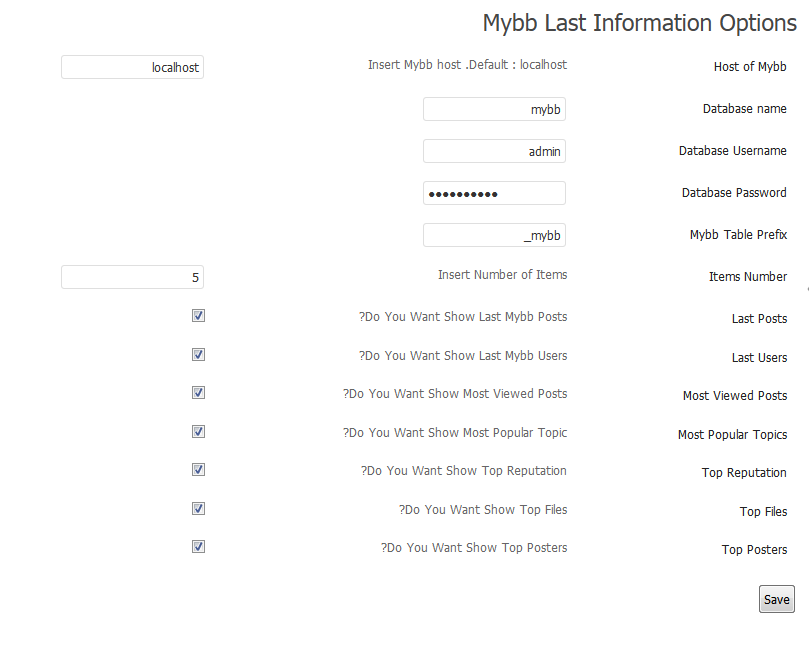
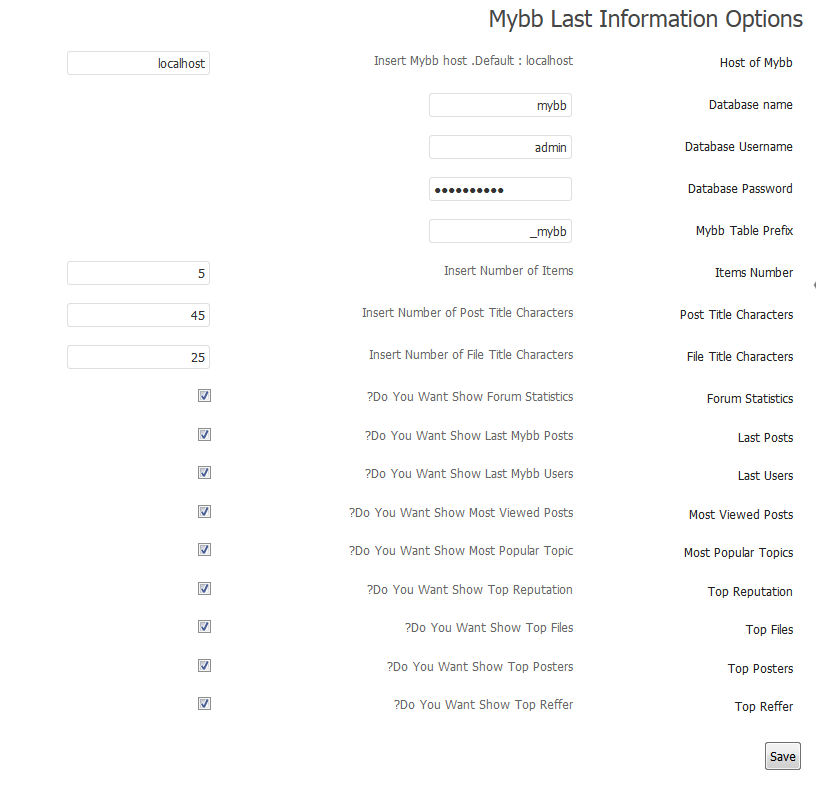
Update Plugin to 1.5
git-svn-id: https://plugins.svn.wordpress.org/mybb-last-information/trunk@788882 b8457f37-d9ea-0310-8a92-e5e31aec5664

diff --git a/mybblastinfo.php b/mybblastinfo.php
@@ -3,7 +3,7 @@
  * Plugin Name: Mybb Last Inforamtion
  * Plugin URI: http://pctricks.ir/
  * Description: This Plugin Show Mybb Info In Wordpress . Like Last post,Last User,Last Thread,Top Download
- * Version: 1.0
+ * Version: 1.5
  * Author: <a href="http://pctricks.ir/">Mostafa Shiraali</a>
  * Author URI: http://pctricks.ir/
  * License: A "Slug" license name e.g. GPL2
@@ -23,6 +23,10 @@
  add_option('mli_topreputation',"","Top Reputation");
  add_option('mli_topfiles',"","Top Files");
  add_option('mli_topposter',"","Top Poster");
+ add_option('mli_lastpostchar',45,"Last Posts Title Character");
+ add_option('mli_filetitle',25,"File Title chars");
+ add_option('mli_fstat',"","Forum Statistics");
+ add_option('mli_reffer',"","Top Reffer");
  } 
  function mybblastinfo_init()
  {
@@ -39,6 +43,10 @@
  register_setting('pctriks_mli_opt','mli_topreputation');
  register_setting('pctriks_mli_opt','mli_topfiles');
  register_setting('pctriks_mli_opt','mli_topposter');
+ register_setting('pctriks_mli_opt','mli_lastpostchar');
+ register_setting('pctriks_mli_opt','mli_filetitle');
+ register_setting('pctriks_mli_opt','mli_fstat');
+ register_setting('pctriks_mli_opt','mli_reffer');
  }
  if ( ! function_exists ( 'mybblastinfo_lang_init' ) ) {
  function mybblastinfo_lang_init()
@@ -83,6 +91,22 @@ function mybblastinfo_display_options()
             <th scope="row"><label><?php _e("Items Number","mybblastinfo");?></label></th>
 			<td><span class="description"><?php _e("Insert Number of Items","mybblastinfo");?></span></td>
 			<td><input type="text" name="mli_itemnumber" value="<?php echo get_option('mli_itemnumber'); ?>" /> </td>
+        </tr>		
+		</tr>
+		 <tr valign="top">
+            <th scope="row"><label><?php _e("Post Title Characters","mybblastinfo");?></label></th>
+			<td><span class="description"><?php _e("Insert Number of Post Title Characters","mybblastinfo");?></span></td>
+			<td><input type="text" name="mli_lastpostchar" value="<?php echo get_option('mli_lastpostchar'); ?>" /> </td>
+        </tr>
+		<tr valign="top">
+            <th scope="row"><label><?php _e("File Title Characters","mybblastinfo");?></label></th>
+			<td><span class="description"><?php _e("Insert Number of File Title Characters","mybblastinfo");?></span></td>
+			<td><input type="text" name="mli_filetitle" value="<?php echo get_option('mli_filetitle'); ?>" /> </td>
+        </tr>
+		<tr valign="top">
+            <th scope="row"><label><?php _e("Forum Statistics","mybblastinfo");?></label></th>
+			<td><span class="description"><?php _e("Do You Want Show Forum Statistics?","mybblastinfo");?></span></td>
+			<td><input type="checkbox" name="mli_fstat" id="mli_fstat" <?php checked('mli_fstat', get_option('mli_fstat'));?> value='mli_fstat'/></td>
         </tr>
 		<tr valign="top">
             <th scope="row"><label><?php _e("Last Posts","mybblastinfo");?></label></th>
@@ -120,6 +144,11 @@ function mybblastinfo_display_options()
 			<td><span class="description"><?php _e("Do You Want Show Top Posters?","mybblastinfo");?></span></td>
 			<td><input type="checkbox" name="mli_topposter" id="mli_topposter" <?php checked('mli_topposter', get_option('mli_topposter'));?> value='mli_topposter'/></td>
         </tr>
+		<tr valign="top">
+            <th scope="row"><label><?php _e("Top Reffer","mybblastinfo");?></label></th>
+			<td><span class="description"><?php _e("Do You Want Show Top Reffer?","mybblastinfo");?></span></td>
+			<td><input type="checkbox" name="mli_reffer" id="mli_reffer" <?php checked('mli_reffer', get_option('mli_reffer'));?> value='mli_reffer'/></td>
+        </tr>
 	</table>
 	<p class="submit">
 	<input type="submit" name="Submit" value="Save" />
@@ -136,6 +165,8 @@ $db_pass=get_option('mli_mybb_db_password');
 $db_dbname=get_option('mli_mybb_db');
 $table_prefix=get_option('mli_mybb_tableprefix');
 $item_number=get_option('mli_itemnumber');
+$lastpost_chars_number=get_option('mli_lastpostchar');
+$file_chars_number=get_option('mli_filetitle');
 $lastpost_perm=get_option('mli_lastpost');
 $lastuser_perm=get_option('mli_lastuser');
 $mostviews_perm=get_option('mli_mostview');
@@ -143,6 +174,8 @@ $hottopic_perm=get_option('mli_hottopic');
 $toprep_perm=get_option('mli_topreputation');
 $topfiles_perm=get_option('mli_topfiles');
 $topposter_perm=get_option('mli_topposter');
+$fstat=get_option('mli_fstat');
+$reffer=get_option('mli_reffer');
 $conection=mysql_connect($hostname,$db_user,$db_pass) or die("Error Mybb Conection");
 mysql_select_db($db_dbname);
 mysql_query("SET NAMES utf8");
@@ -156,17 +189,44 @@ SELECT pid
 FROM ".$table_prefix."posts
 WHERE visible='1' ORDER BY pid DESC
 )t2 ON t1.pid = t2.pid GROUP BY tid ORDER BY pid DESC");
+$fstat_users =mysql_query("SELECT * FROM ".$table_prefix."users");
+$fstat_threads =mysql_query("SELECT * FROM ".$table_prefix."threads");
+$fstat_posts =mysql_query("SELECT * FROM ".$table_prefix."posts");
+$fstat_banned =mysql_query("SELECT * FROM ".$table_prefix."banned");
+$fstat_groups =mysql_query("SELECT * FROM ".$table_prefix."usergroups");
+$fstat_forums =mysql_query("SELECT * FROM ".$table_prefix."forums");
+$fstat_polls =mysql_query("SELECT * FROM ".$table_prefix."polls");
 $query_mostviewed =mysql_query("SELECT * FROM ".$table_prefix."threads WHERE visible='1' ORDER BY views DESC LIMIT 0,{$item_number}");
 $query_hottopics = mysql_query("SELECT * FROM ".$table_prefix."threads WHERE visible='1' ORDER BY replies DESC LIMIT 0,{$item_number}");
 $query_top_poster = mysql_query("SELECT * FROM ".$table_prefix."users ORDER BY postnum DESC LIMIT 0,{$item_number}");
 $query_top_reputation =mysql_query("SELECT * FROM ".$table_prefix."users ORDER BY reputation DESC LIMIT 0,{$item_number}");
 $query_top_file = mysql_query("SELECT * FROM ".$table_prefix."attachments ORDER BY downloads DESC LIMIT 0,{$item_number}");
 $query_users=mysql_query("SELECT * FROM  ".$table_prefix."users ORDER BY uid DESC LIMIT 0,{$item_number}");
+	$query_reffer = mysql_query("
+	SELECT u.uid,u.username,u.usergroup,u.displaygroup,count(*) as refcount 
+	FROM ".$table_prefix."users u 
+	LEFT JOIN ".$table_prefix."users r ON (r.referrer = u.uid) 
+	WHERE r.referrer = u.uid 
+	GROUP BY r.referrer DESC 
+	ORDER BY refcount DESC 
+	LIMIT 0 ,{$item_number}");	
 $mybb_info='
 <div id="mybbinfoaccordion">';
+if($fstat)
+{
+$mybb_info .='<section id="item1"><h1><a href="#">'.__("Forum Statistics","mybblastinfo").'</a></h1><p>';
+$mybb_info .="<li>".__("Members","mybblastinfo")." : ".mysql_num_rows($fstat_users)."</li>";
+$mybb_info .="<li>".__("Threads","mybblastinfo")." : ".mysql_num_rows($fstat_threads)."</li>";
+$mybb_info .="<li>".__("Posts","mybblastinfo")." : ".mysql_num_rows($fstat_posts)."</li>";
+$mybb_info .="<li>".__("Banned Users","mybblastinfo")." : ".mysql_num_rows($fstat_banned)."</li>";
+$mybb_info .="<li>".__("User Groups","mybblastinfo")." : ".mysql_num_rows($fstat_groups)."</li>";
+$mybb_info .="<li>".__("Forums","mybblastinfo")." : ".mysql_num_rows($fstat_forums)."</li>";
+$mybb_info .="<li>".__("Polls","mybblastinfo")." : ".mysql_num_rows($fstat_polls)."</li>";
+$mybb_info.='</p></section>';
+}
 if($lastpost_perm)
 {
-$mybb_info .='<section id="item1"><h1><a href="#">'.__("Last Post","mybblastinfo").'</a></h1><p>';
+$mybb_info .='<section id="item2"><h1><a href="#">'.__("Last Post","mybblastinfo").'</a></h1><p>';
 $post_count=0;
 while(($fetch=mysql_fetch_array($query_posts)) && $post_count<$item_number)
 {
@@ -177,7 +237,7 @@ $mybb_info.='</p></section>';
 }
 if($lastuser_perm)
 {
-$mybb_info.='<section id="item2"><h1><a href="#">'.__("Last User","mybblastinfo").'</a></h1><p>';
+$mybb_info.='<section id="item3"><h1><a href="#">'.__("Last User","mybblastinfo").'</a></h1><p>';
 while($fetch=mysql_fetch_array($query_users))
 {
 $mybb_info .="<li><a href=".$forum_url."/member.php?action=profile&uid=".$fetch['uid']." target=\"_blank\">".$fetch['username']."</a></li>";
@@ -186,25 +246,25 @@ $mybb_info.='</p></section>';
 }
 if($mostviews_perm)
 {
-$mybb_info.='<section id="item3"><h1><a href="#">'.__("Most viewed","mybblastinfo").'</a></h1><p>';
+$mybb_info.='<section id="item4"><h1><a href="#">'.__("Most viewed","mybblastinfo").'</a></h1><p>';
 while($fetch=mysql_fetch_array($query_mostviewed))
 {
-$mybb_info .="<li><a href=".$forum_url."/showthread.php?tid=".$fetch['tid']." target=\"_blank\">".mb_substr($fetch['subject'],0,45,'utf-8')."</a></li>";
+$mybb_info .="<li><a href=".$forum_url."/showthread.php?tid=".$fetch['tid']." target=\"_blank\">".mb_substr($fetch['subject'],0,$lastpost_chars_number,'utf-8')."</a></li>";
 }
 $mybb_info.='</p></section>';
 }
 if($hottopic_perm)
 {
-$mybb_info.='<section id="item4"><h1><a href="#">'.__("Hot Topics","mybblastinfo").'</a></h1><p>';
+$mybb_info.='<section id="item5"><h1><a href="#">'.__("Hot Topics","mybblastinfo").'</a></h1><p>';
 while($fetch=mysql_fetch_array($query_hottopics))
 {
-$mybb_info .="<li><a href=".$forum_url."/showthread.php?tid=".$fetch['tid']." target=\"_blank\">".mb_substr($fetch['subject'],0,45,'utf-8')."</a></li>";
+$mybb_info .="<li><a href=".$forum_url."/showthread.php?tid=".$fetch['tid']." target=\"_blank\">".mb_substr($fetch['subject'],0,$lastpost_chars_number,'utf-8')."</a></li>";
 }
 $mybb_info.='</p></section>';
 }
 if($topposter_perm)
 {
-$mybb_info.='<section id="item1"><h1><a href="#">'.__("Top posting users","mybblastinfo").'</a></h1><p>';
+$mybb_info.='<section id="item6"><h1><a href="#">'.__("Top posting users","mybblastinfo").'</a></h1><p>';
 while($fetch=mysql_fetch_array($query_top_poster))
 {
 $mybb_info .="<li><a href=".$forum_url."/member.php?action=profile&uid=".$fetch['uid']." target=\"_blank\">".$fetch['username']."</a></li>";
@@ -213,7 +273,7 @@ $mybb_info.='</p></section>';
 }
 if($toprep_perm)
 {
-$mybb_info.='<section id="item5"><h1><a href="#">'.__("Top Reputation","mybblastinfo").'</a></h1><p>';
+$mybb_info.='<section id="item7"><h1><a href="#">'.__("Top Reputation","mybblastinfo").'</a></h1><p>';
 while($fetch=mysql_fetch_array($query_top_reputation))
 {
 $mybb_info .="<li><a href=".$forum_url."/member.php?action=profile&uid=".$fetch['uid']." target=\"_blank\">".$fetch['username']."</a></li>";
@@ -222,10 +282,19 @@ $mybb_info.='</p></section>';
 }
 if($topfiles_perm)
 {
-$mybb_info.='<section id="item6"><h1><a href="#">'.__("Top Files","mybblastinfo").'</a></h1><p>';
+$mybb_info.='<section id="item8"><h1><a href="#">'.__("Top Files","mybblastinfo").'</a></h1><p>';
 while($fetch=mysql_fetch_array($query_top_file))
 {
-$mybb_info .="<li><a href=".$forum_url."/showthread.php?pid==".$fetch['pid']." target=\"_blank\">".mb_substr($fetch['filename'],0,25,'utf-8')."</a></li>";
+$mybb_info .="<li><a href=".$forum_url."/showthread.php?pid==".$fetch['pid']." target=\"_blank\">".mb_substr($fetch['filename'],0,$file_chars_number,'utf-8')."</a></li>";
+}
+$mybb_info.='</p></section>';
+}
+if($reffer)
+{
+$mybb_info.='<section id="item9"><h1><a href="#">'.__("Top Reffer","mybblastinfo").'</a></h1><p>';
+while($fetch=mysql_fetch_array($query_reffer))
+{
+$mybb_info .="<li><a href=".$forum_url."/member.php?action=profile&uid=".$fetch['uid']." target=\"_blank\">".$fetch['username']."</a></li>";
 }
 $mybb_info.='</p></section>';
 }
